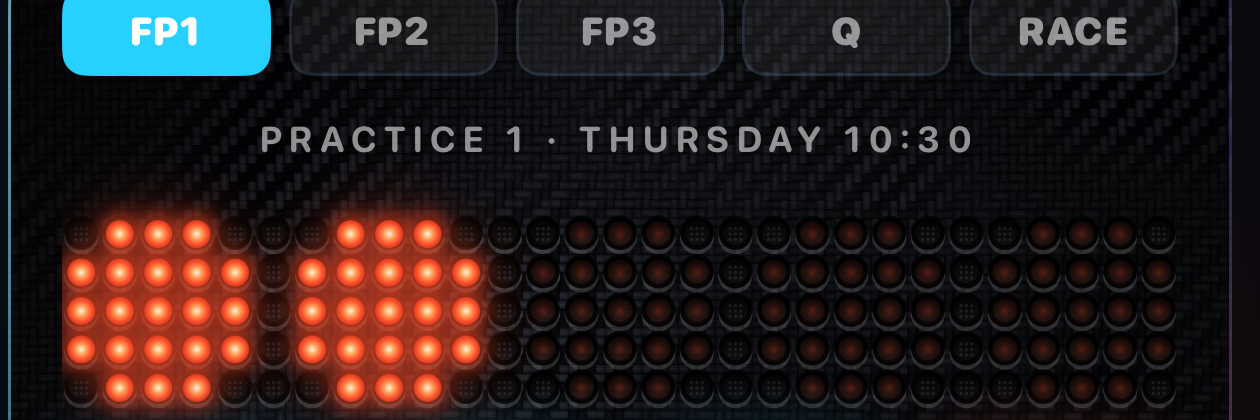
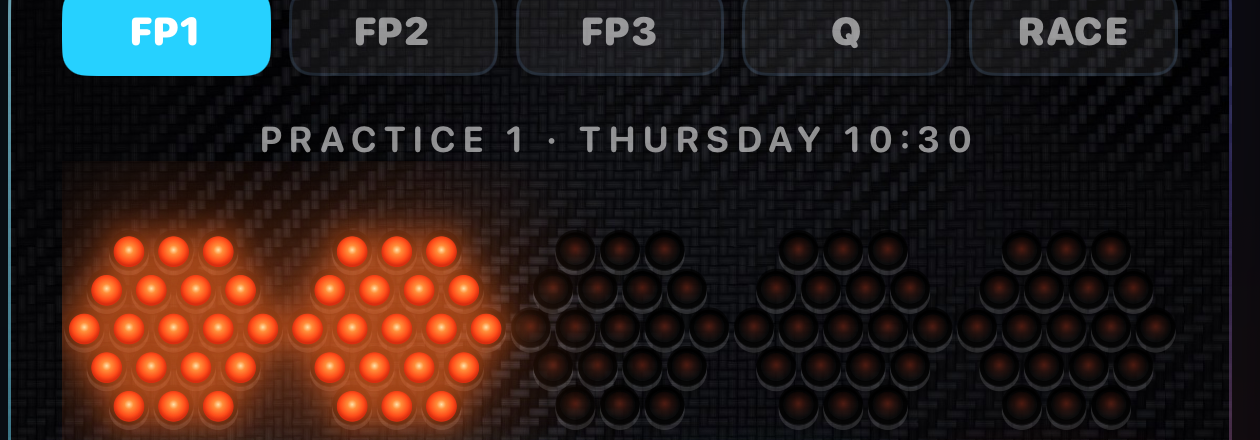
Gantry: five hexagonal 19-LED clusters with deep sockets and additive glow

diff --git a/TeamRadio/Views/CockpitKit.swift b/TeamRadio/Views/CockpitKit.swift
@@ -91,109 +91,85 @@ struct NeonTile: View {
     }
 }
 
-/// The start gantry: five round lamps in a row, each a disc-shaped
-/// cluster of 21 LEDs. Dark red while armed, they light column
-/// by column through race week; lights out once the session is running.
+/// The start gantry: five round lamps in a row, each a hexagonal cluster of
+/// 19 LEDs in deep sockets. Armed LEDs are dark red glass; lit ones are
+/// saturated red-orange points with an additive bloom, like a real lamp.
 struct DotMatrixBoard: View {
     let litLights: Int
     var lightColor: Color = Theme.live
 
     var body: some View {
         Canvas { ctx, size in
-            let cols = 29                   // five 5-wide lamps with single gaps, edge to edge
-            let rows = 5
-            let pitch = size.width / CGFloat(cols)
-            let top = (size.height - CGFloat(rows) * pitch) / 2
-            let hole = pitch * 0.42
-            let cellStep = pitch * 0.14
-            let cellR = pitch * 0.042
+            let s = size.width / 25                 // LED spacing: five lamps, five LEDs wide each
+            let ledR = s * 0.4
+            let midY = size.height / 2
 
-            func center(_ col: Int, _ row: Int) -> CGPoint {
-                CGPoint(x: CGFloat(col) * pitch + pitch / 2, y: top + CGFloat(row) * pitch + pitch / 2)
-            }
             func rect(_ p: CGPoint, _ r: CGFloat) -> CGRect { CGRect(x: p.x - r, y: p.y - r, width: 2 * r, height: 2 * r) }
             func disc(_ p: CGPoint, _ r: CGFloat, _ shading: GraphicsContext.Shading, in c: inout GraphicsContext) {
                 c.fill(Path(ellipseIn: rect(p, r)), with: shading)
             }
-            func cells(_ p: CGPoint, _ r: CGFloat, _ shading: GraphicsContext.Shading, in c: inout GraphicsContext) {
-                for dx in -1...1 {
-                    for dy in -1...1 {
-                        disc(CGPoint(x: p.x + CGFloat(dx) * cellStep, y: p.y + CGFloat(dy) * cellStep), r, shading, in: &c)
-                    }
-                }
-            }
-            /// Deep recessed hole: lit lip along the bottom edge, shadow inside the
-            /// top, the floor darkest at the top where the wall shades it.
+            /// Deep socket: lit lip at the bottom, wall shadow inside the top.
             func socket(_ p: CGPoint, in c: inout GraphicsContext) {
-                disc(CGPoint(x: p.x, y: p.y + 1.1), hole * 1.05, .color(.white.opacity(0.14)), in: &c)
-                disc(p, hole, .linearGradient(Gradient(colors: [Color.black.opacity(0.97), Color.black.opacity(0.62)]),
-                                              startPoint: CGPoint(x: p.x, y: p.y - hole), endPoint: CGPoint(x: p.x, y: p.y + hole)), in: &c)
-                c.stroke(Path(ellipseIn: rect(CGPoint(x: p.x, y: p.y - 0.5), hole * 0.9)), with: .color(.black.opacity(0.75)), lineWidth: 1.6)
-            }
-            /// LED: white-hot centre falling off through orange to red — no hard dot.
-            func lens(_ p: CGPoint, on: Bool, in c: inout GraphicsContext) {
-                if on {
-                    disc(p, hole * 0.86, .radialGradient(
-                        Gradient(stops: [.init(color: Color(red: 1, green: 0.96, blue: 0.85), location: 0),
-                                         .init(color: Color(red: 1, green: 0.62, blue: 0.35), location: 0.38),
-                                         .init(color: lightColor, location: 0.78),
-                                         .init(color: lightColor.opacity(0.55), location: 1)]),
-                        center: p, startRadius: 0, endRadius: hole * 0.86), in: &c)
-                } else {
-                    disc(p, hole * 0.8, .radialGradient(Gradient(colors: [lightColor.opacity(0.3), lightColor.opacity(0.12), lightColor.opacity(0.03)]),
-                                                        center: p, startRadius: 0, endRadius: hole * 0.8), in: &c)
-                }
+                disc(CGPoint(x: p.x, y: p.y + 1.2), ledR * 1.12, .color(.white.opacity(0.13)), in: &c)
+                disc(p, ledR * 1.08, .linearGradient(Gradient(colors: [Color.black.opacity(0.97), Color.black.opacity(0.6)]),
+                                                     startPoint: CGPoint(x: p.x, y: p.y - ledR), endPoint: CGPoint(x: p.x, y: p.y + ledR)), in: &c)
+                c.stroke(Path(ellipseIn: rect(CGPoint(x: p.x, y: p.y - 0.6), ledR * 0.98)), with: .color(.black.opacity(0.7)), lineWidth: 1.6)
             }
 
-            // lamp c: a 5×5 block with the corners cut — reads as a disc
-            var lit: Set<Int> = []          // key: row * 1000 + col
-            var armed: Set<Int> = []
+            // 19 LEDs per lamp: centre, ring of 6 at s, ring of 12 at ~2s
+            var leds: [(CGPoint, Bool)] = []
             var lampCenters: [(CGPoint, Bool)] = []
-            for c in 0..<5 {
-                let cc = 2 + c * 6
-                lampCenters.append((center(cc, 2), c < litLights))
-                for dc in -2...2 {
-                    for dr in -2...2 where abs(dc) + abs(dr) <= 3 {
-                        let key = (2 + dr) * 1000 + cc + dc
-                        if c < litLights { lit.insert(key) } else { armed.insert(key) }
-                    }
+            for i in 0..<5 {
+                let on = i < litLights
+                let c = CGPoint(x: s * 2.5 + CGFloat(i) * 5 * s, y: midY)
+                lampCenters.append((c, on))
+                leds.append((c, on))
+                for k in 0..<6 {
+                    let a = CGFloat(k) * .pi / 3
+                    leds.append((CGPoint(x: c.x + s * cos(a), y: c.y + s * sin(a)), on))
+                    leds.append((CGPoint(x: c.x + 2 * s * cos(a), y: c.y + 2 * s * sin(a)), on))
+                    let b = a + .pi / 6
+                    leds.append((CGPoint(x: c.x + s * 1.732 * cos(b), y: c.y + s * 1.732 * sin(b)), on))
                 }
             }
 
-            // every hole is there; lamp holes carry an LED, the rest a faint cell matrix
-            for c in 0..<cols {
-                for r in 0..<rows {
-                    let p = center(c, r)
-                    socket(p, in: &ctx)
-                    let key = r * 1000 + c
-                    if armed.contains(key) {
-                        lens(p, on: false, in: &ctx)
-                    } else if !lit.contains(key) {
-                        cells(p, cellR, .color(.white.opacity(0.08)), in: &ctx)
-                    }
+            for (p, on) in leds {
+                socket(p, in: &ctx)
+                if !on {
+                    // dark red glass, a hint of the die inside
+                    disc(p, ledR * 0.82, .radialGradient(Gradient(colors: [lightColor.opacity(0.28), lightColor.opacity(0.1), Color.black.opacity(0.2)]),
+                                                         center: CGPoint(x: p.x, y: p.y - ledR * 0.15), startRadius: 0, endRadius: ledR * 0.82), in: &ctx)
                 }
             }
 
-            // lit LEDs: each one blooms on its own, then a soft wash over the whole lamp
+            // light is additive: wide lamp wash, then a tight halo per LED
+            let hot = Color(red: 1.0, green: 0.42, blue: 0.14)
             ctx.drawLayer { layer in
-                layer.addFilter(.blur(radius: pitch * 0.9))
-                for (p, on) in lampCenters where on {
-                    disc(p, pitch * 2.4, .color(lightColor.opacity(0.35)), in: &layer)
+                layer.blendMode = .plusLighter
+                layer.addFilter(.blur(radius: s * 1.4))
+                for (c, on) in lampCenters where on {
+                    disc(c, s * 2.8, .color(hot.opacity(0.32)), in: &layer)
                 }
             }
             ctx.drawLayer { layer in
-                layer.addFilter(.blur(radius: hole * 0.7))
-                for key in lit {
-                    disc(center(key % 1000, key / 1000), hole * 1.05, .color(lightColor.opacity(0.9)), in: &layer)
+                layer.blendMode = .plusLighter
+                layer.addFilter(.blur(radius: ledR * 0.9))
+                for (p, on) in leds where on {
+                    disc(p, ledR * 1.25, .color(hot.opacity(0.55)), in: &layer)
                 }
             }
-            for key in lit {
-                lens(center(key % 1000, key / 1000), on: true, in: &ctx)
+            for (p, on) in leds where on {
+                disc(p, ledR * 0.86, .radialGradient(
+                    Gradient(stops: [.init(color: Color(red: 1.0, green: 0.88, blue: 0.66), location: 0),
+                                     .init(color: Color(red: 1.0, green: 0.55, blue: 0.22), location: 0.3),
+                                     .init(color: Color(red: 1.0, green: 0.3, blue: 0.1), location: 0.75),
+                                     .init(color: Color(red: 0.85, green: 0.18, blue: 0.06), location: 1)]),
+                    center: CGPoint(x: p.x, y: p.y - ledR * 0.1), startRadius: 0, endRadius: ledR * 0.86), in: &ctx)
             }
         }
-        // taller than the grid so the bloom isn't clipped; the negative
+        // taller than the lamps so the bloom isn't clipped; the negative
         // padding hands the spare room back to the layout
-        .frame(height: 104)
-        .padding(.vertical, -16)
+        .frame(height: 112)
+        .padding(.vertical, -14)
     }
 }
